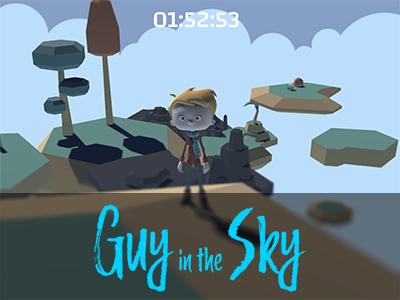
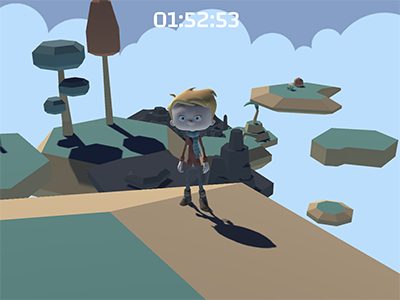
resizing and swapping out photo for screen grab

diff --git a/index.html b/index.html
@@ -79,8 +79,10 @@
         <thead>
             <tr>
                 <th style="width: 30%; background-color: cadetblue;">
-                    <img class="enlarge" src="img/other-shot.png" style="padding: 10px; width: 60%;">
+                    <img class="enlarge" src="img/other-shot.png" style="padding: 5px; width: 700px;">
                 </th>
+            </tr>
+            <tr>
                 <td style="font-size: 22px; padding: 20px;">
                     <b>
                         I am a young Tulsa creative, with a passion for finding innovative ways to use tech! I am attending Holberton to tackle software development head on and learn about new technologies.
@@ -142,7 +144,7 @@
             </th>
         </tr>
         <tr>
-            <td width="50%" style="text-align: center;"><img src="img/screen-grab.png" style="padding: 5px; width: 50%;"></td>
+            <td width="50%" style="text-align: center;"><img src="img/screen-grab.png" style="padding: 5px; width: 700px;"></td>
         </tr>
         <tr>
             <td class="text" width="50%"><b>Guy in the Sky</b> is a project from Holberton to create a 3D platformer game.

diff --git a/style.css b/style.css
@@ -127,10 +127,6 @@ td {
     margin-right: auto;
 }
 
-.enlarge:hover {
-    transform: scale(2.5);
-}
-
 .project-title {
     margin-top: 3%;
     margin-left: auto;
